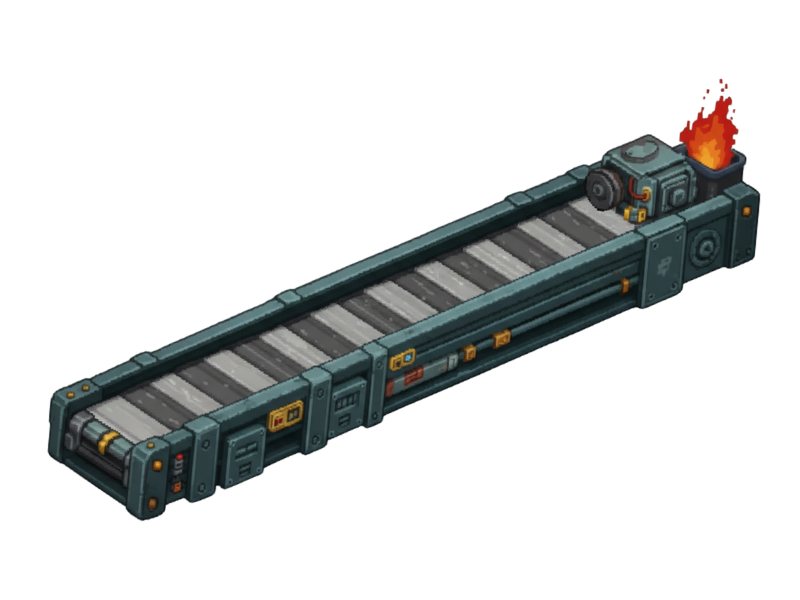
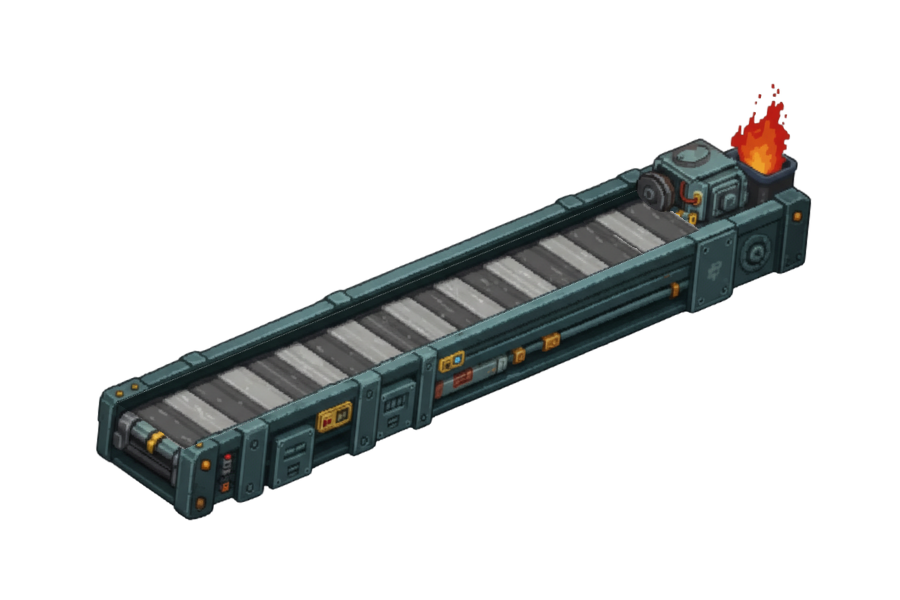
jogo

Changed region(s): [[0.0625, 0.15, 0.9688, 0.87], [0.5312, 0.36, 0.5625, 0.39]]

diff --git a/jogo.css b/jogo.css
@@ -8,14 +8,96 @@
   }
 
 body {
-    background-color: #9a9a9a;
-    color: white;
-    font-family: sans-serif;
+    background-image: url('imagens/fundo2 (3).png');
+    background-size: cover;
+    background-attachment: fixed;
+    overflow: hidden;
+    height: 100vh;
+    width: 100vw;
     display: flex;
     justify-content: center;
     align-items: center;
-    min-height: 100vh;
     margin: 0;
+}
+
+
+.cx1 {
+  width: 100%;
+  max-width: 1200px; /* Alinhe com a largura máxima dos cards */
+  display: flex;
+  flex-direction: row; 
+  align-items: center; /* ALINHA TODOS OS ITENS VERTICALMENTE (MENU E TÍTULO) */
+    /* Garante que o H1 esteja no centro absoluto do container */
+  justify-content: center; 
+  margin-bottom: 20px;
+  position: relative; /* CRÍTICO: Define a base para o posicionamento absoluto do menu */
+  margin-top: -10px;
+  }
+
+/* Dropdown Button */
+.dropbtn {
+  background-color:transparent;
+  color: white;
+  padding: 16px;
+  font-size: 16px;
+  border: none;
+}
+
+.menu{
+  width: 50px;
+}
+
+/* The container <div> - needed to position the dropdown content */
+.dropdown {
+  position: relative;
+  display: inline-block;
+  position: absolute; /* Permite posicionar o menu em relação ao container .cx1 */
+  left: 0; /* Alinha o menu à esquerda do container .cx1 */
+}
+
+/* Dropdown Content (Hidden by Default) */
+.dropdown-content {
+  display: none;
+  position: absolute;
+  background-color: #f1f1f1;
+  min-width: 160px;
+  box-shadow: 0px 8px 16px 0px rgba(0,0,0,0.2);
+  z-index: 1;
+}
+
+/* Links inside the dropdown */
+.dropdown-content a {
+  color: black;
+  padding: 12px 16px;
+  text-decoration: none;
+  display: block;
+}
+
+/* Change color of dropdown links on hover */
+.dropdown-content a:hover {
+  background: linear-gradient(to bottom, #f0f0f0, #d9d9d9); 
+}
+
+/* Show the dropdown menu on hover */
+.dropdown:hover .dropdown-content {
+  display: block;
+}
+
+/* Change the background color of the dropdown button when the dropdown content is shown */
+.dropdown:hover .dropbtn {
+  background: linear-gradient(to bottom, #f0f0f0, #d9d9d9); 
+  border-radius: 50%;
+}
+
+h1 {
+/* Centralização horizontal agora é garantida pelo Flexbox do .cx1 (justify-content: center) */
+  font-family: "Jersey 10", sans-serif;
+  font-weight: 400;
+  font-style: normal;
+  font-size: 60px;
+  margin: 0; /* Limpa margens */
+  color: #333;
+
 }
 
 .title{

diff --git a/jogo.js b/jogo.js
@@ -1,6 +1,19 @@
 var canvas = document.getElementById("gameCanvas");
 var ctx = canvas.getContext("2d");
 
+function score(url, x, y) {
+  var img = new Image();
+  img.src = url;
+  img.onload = function () {
+    ctx.drawImage(img, x, y, 100, 80);
+  };
+  return img;
+}
+
+// Chamando a função para cada imagem com sua posição
+var score = score('imagens/score.png', 755, -5);
+
+
 function imagem(url, x, y) {
   var img = new Image();
   img.src = url;
@@ -23,13 +36,25 @@ function imagem2(url, x, y) {
   var img2 = new Image();
   img2.src = url;
   img2.onload = function () {
-    ctx.drawImage(img2, x, y, 590, 500);
+    ctx.drawImage(img2, x, y, 620, 530);
   };
   return img2;
 }
 
 // Chamando a função para cada imagem com sua posição
-var esteira = imagem2('imagens/esteira1.png', 190, 212);
+var esteira = imagem2('imagens/esteira1.png', 240, 152);
+
+function imagem3(url, x, y) {
+  var img3 = new Image();
+  img3.src = url;
+  img3.onload = function () {
+    ctx.drawImage(img3, x, y, 400, 310);
+  };
+  return img3;
+}
+
+// Chamando a função para cada imagem com sua posição
+var esteira = imagem3('imagens/caixa_esteira.png', 115, 402);
 
 
 

diff --git a/jogo.html b/jogo.html
@@ -7,18 +7,33 @@
     <title>Document</title>
 </head>
 <body>
-    
+   
    <div id="game-container">
-    <h1 class="title">Fábrica Maluca</h1>
 
-        <canvas id="gameCanvas" width="800" height="600">
+       <div class="cx1">
+
+    <div class="dropdown">
+        <button class="dropbtn">
+            <img class="menu" src="img_desenvolvedores/menu.png" alt="">
+        </button>
+        <div class="dropdown-content">
+            <a href="index.htm">Home</a>
+            <a href="desenvolvedores.html">Desenvolvedores</a>
+            <a href="jogo.html">Jogar</a>
+        </div>
+    </div>
+
+    <h1 class="tt">
+    <img src="imagens/titulo (1).png" alt="Desenvolvedores">
+    </h1>
+
+    </div>
+        <canvas id="gameCanvas" width="900" height="600">
           
         </canvas>
        
     </div>
     
-
-
     <script src="jogo.js"></script>
 
 
